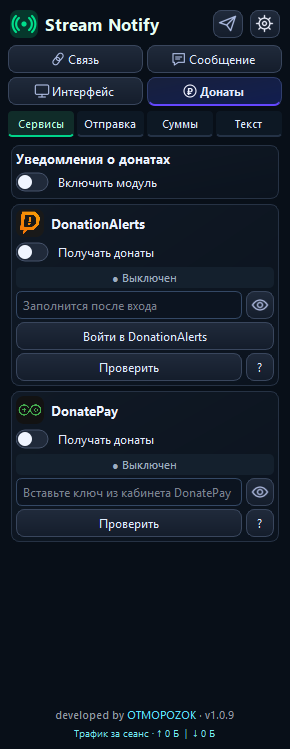
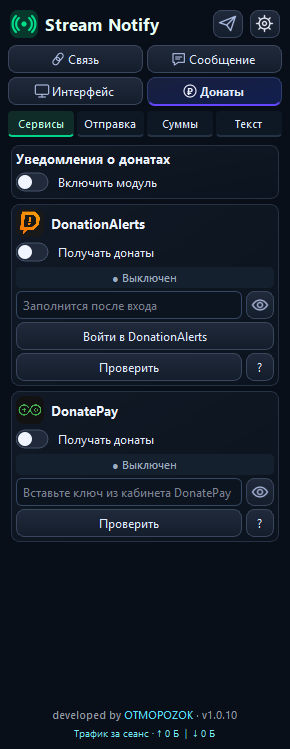
Refresh 1.0.10 UI screenshots

Changed region(s): [[0.1862, 0.9519, 0.8069, 0.9826]]

diff --git a/README.md b/README.md
@@ -9,6 +9,7 @@
 | ![Главная панель Stream Notify](docs/screenshots/home.png) | ![Потоки, битрейт и графики Stream Notify](docs/screenshots/monitoring.png) |
 
 *Снимки интерфейса 1.0.10 созданы в тестовом окружении. Подключения и потоки на них демонстрационные.*
+[Узкая панель 275 px](docs/screenshots/home-narrow.png).
 
 ## Возможности
 

diff --git a/docs/README_EN.md b/docs/README_EN.md
@@ -7,6 +7,7 @@
 | ![Stream Notify home dock](screenshots/home.png) | ![Outputs, bitrate, and graphs](screenshots/monitoring.png) |
 
 *Version 1.0.10 UI previews were made in an isolated test environment. Shown accounts and outputs are sample data.*
+[Narrow 275 px dock](screenshots/home-narrow.png).
 
 ## Features
 
